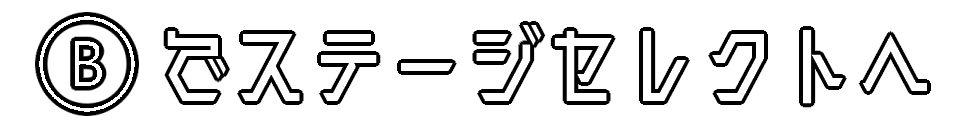
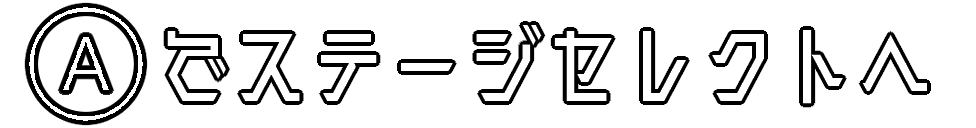
クリア時、Aボタンでステージセレクトへ戻るように

Changed region(s): [[0.0, 0.0, 0.1537, 1.0]]

diff --git a/Project/Application/UI/GameUIManager.cpp b/Project/Application/UI/GameUIManager.cpp
@@ -753,8 +753,8 @@ void GameUIManager::ClearUIUpdate()
 
 	// 演出が終了したら
 	if (isBlackOut_) {
-		// Bボタンが押されたらステージセレクトへ
-		if (input_->TriggerJoystick(kJoystickButtonB)) {
+		// Aボタンが押されたらステージセレクトへ
+		if (input_->TriggerJoystick(kJoystickButtonA)) {
 			// 演出終了を伝える
 			isEndClearStaging_ = true;
 		}
